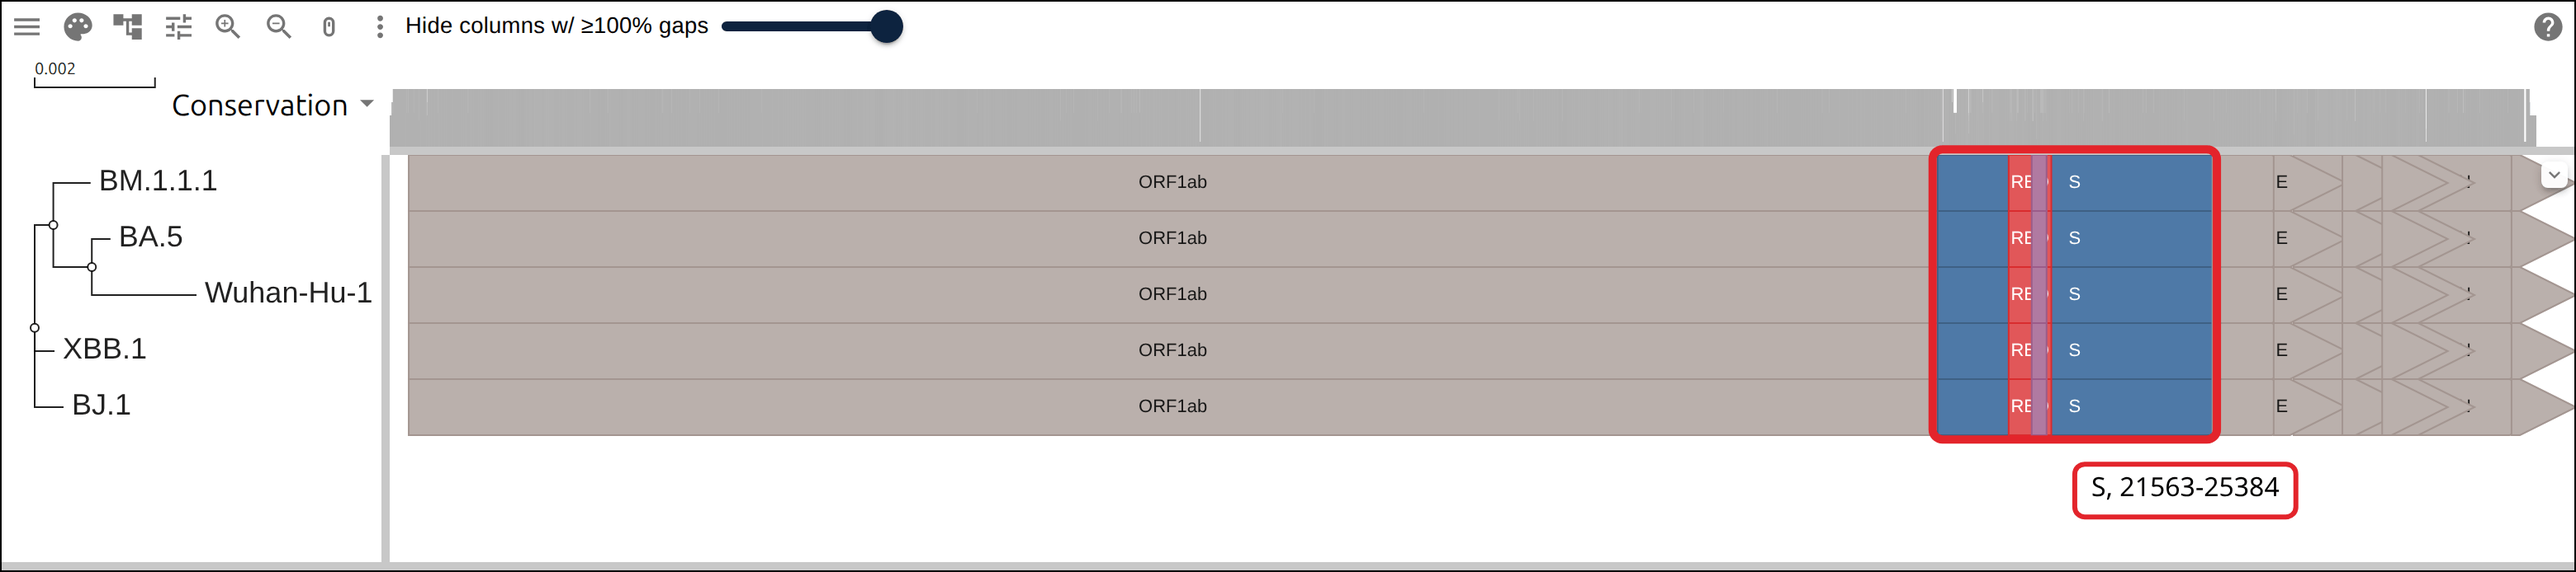
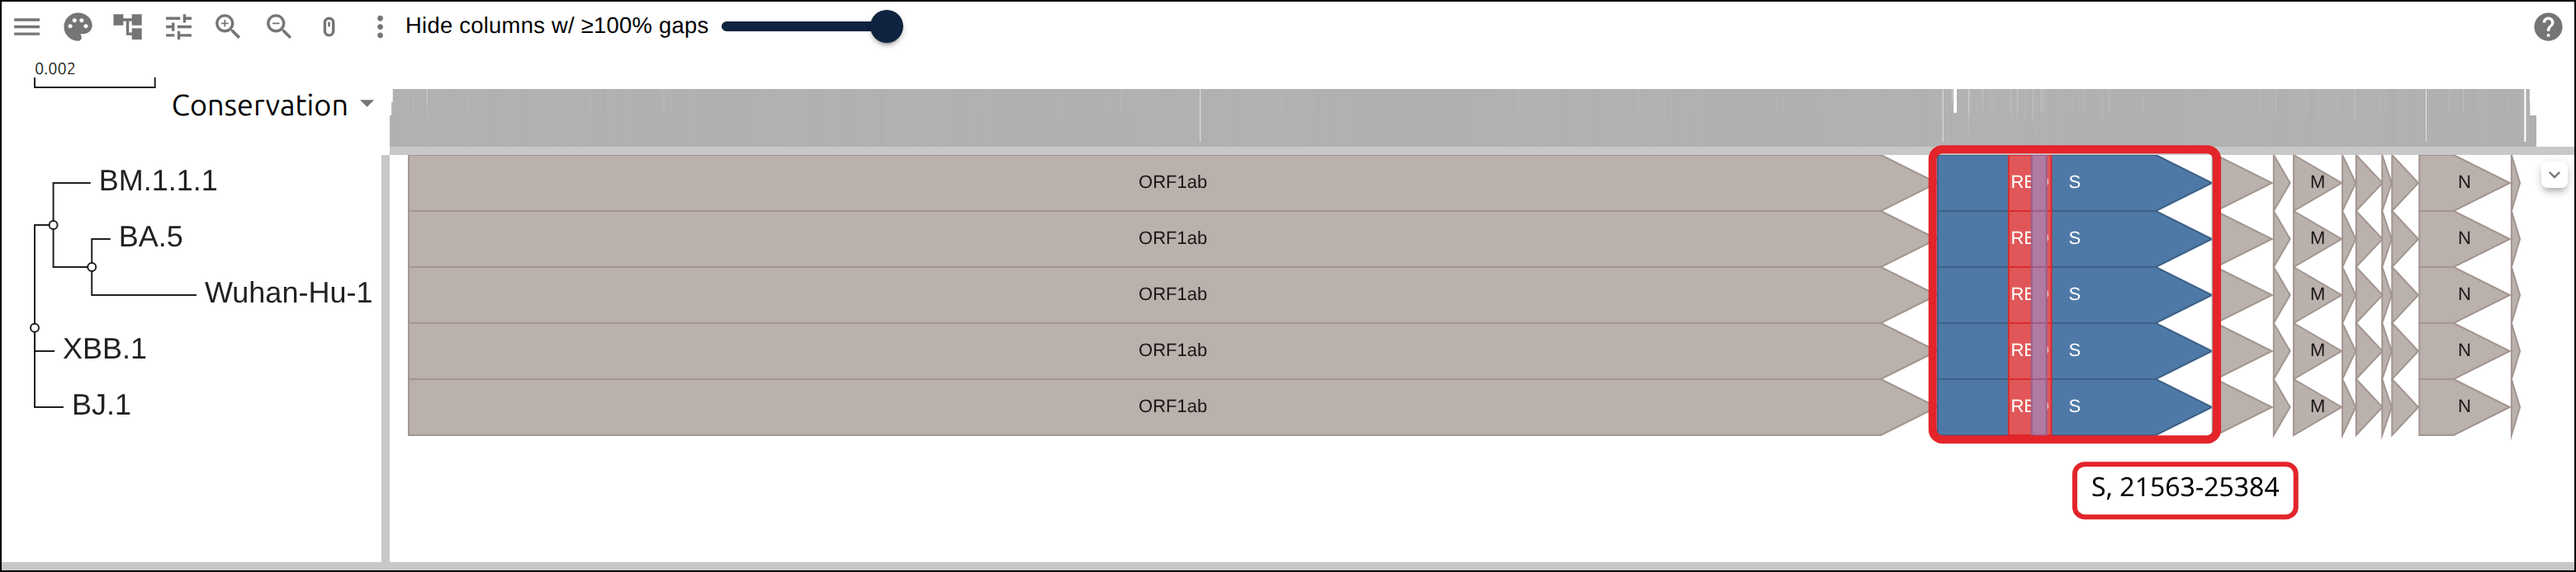
docs(tutorials): the recombination figures draw their ORFs as arrows
recombinant-genes.gff carries a strand on all 65 lines, so its two whole-genome
figures redraw with the head inside the feature. The ORFs no longer run into
one another, and M and N now carry their names where the neighbour's head used
to cover them.

diff --git a/docs/tutorials/recombination_breakpoint.md b/docs/tutorials/recombination_breakpoint.md
@@ -159,8 +159,8 @@ XBB.1.
 
 [![](../media/recombination_breakpoint-1.png)](https://gmod.org/JBrowseMSA/demo/?data=%7B%22msaview%22%3A%7B%22type%22%3A%22MsaView%22%2C%22height%22%3A340%2C%22treeAreaWidth%22%3A230%2C%22colWidth%22%3A0.04347389893990569%2C%22rowHeight%22%3A34%2C%22colorSchemeName%22%3A%22nucleotide%22%2C%22msaFilehandle%22%3A%7B%22uri%22%3A%22data%2Frecombinant%2Frecombinant.afa%22%7D%2C%22treeFilehandle%22%3A%7B%22uri%22%3A%22data%2Frecombinant%2Frecombinant.nwk%22%7D%2C%22gffFilehandle%22%3A%7B%22uri%22%3A%22data%2Frecombinant%2Frecombinant-genes.gff%22%7D%2C%22encodings%22%3A%5B%7B%22channel%22%3A%22featureLabel%22%2C%22field%22%3A%22Name%22%7D%5D%2C%22showDomainLegend%22%3Afalse%7D%7D)
 
-Five rows of 29,903 columns, each carrying the 11 genes as boxes. ORF1ab fills
-the first two thirds, S is the blue box after it, and inside S sit the red
+Five rows of 29,903 columns, each carrying the 11 genes as arrows. ORF1ab fills
+the first two thirds, S is the blue arrow after it, and inside S sit the red
 receptor-binding domain and the purple receptor-binding motif.
 
 ## 5. Count the differences to each parent
